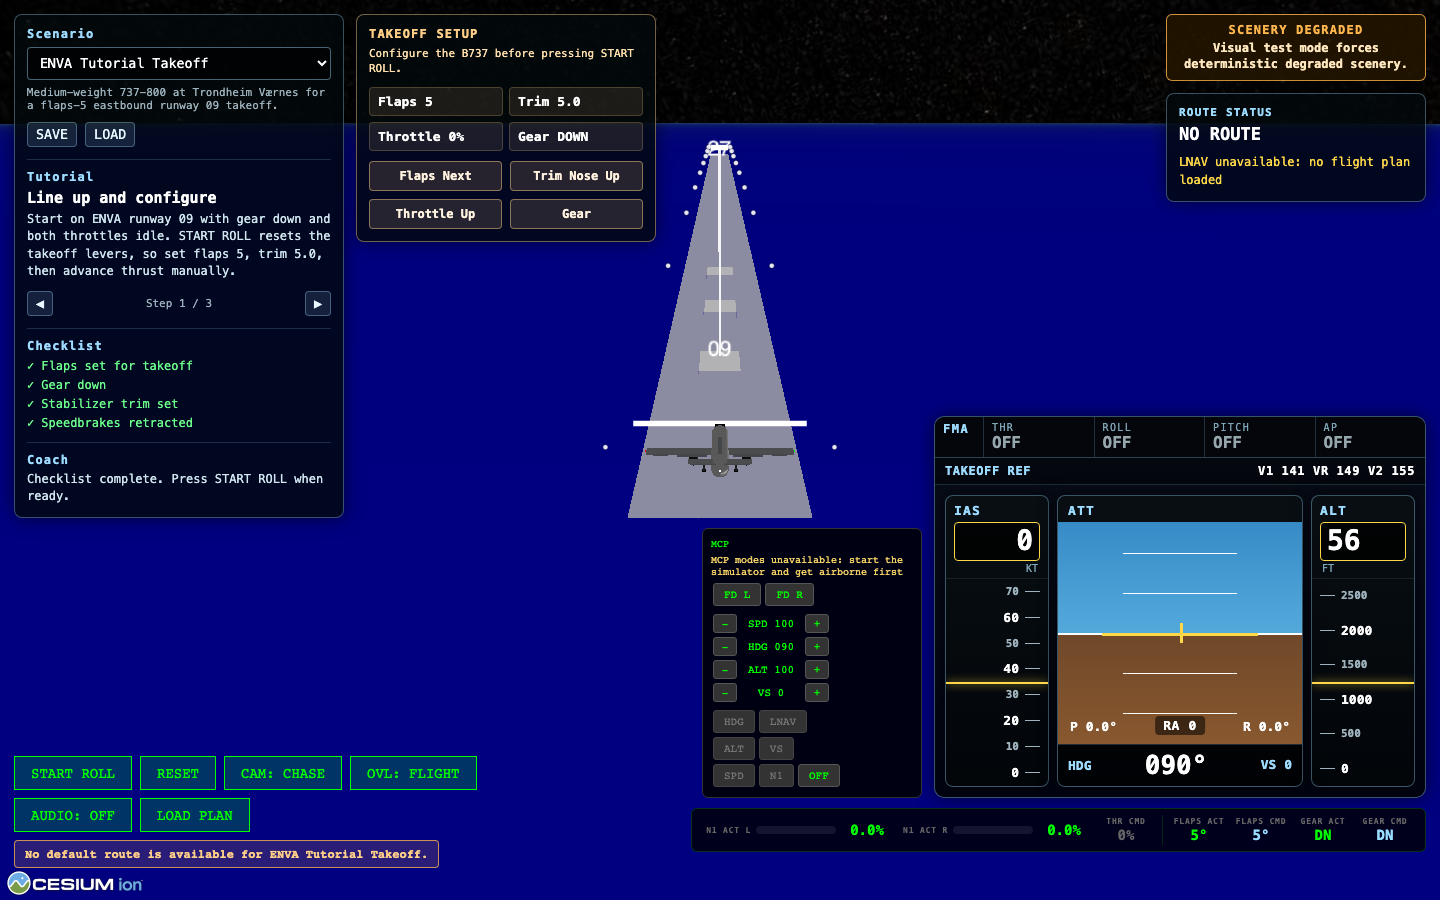
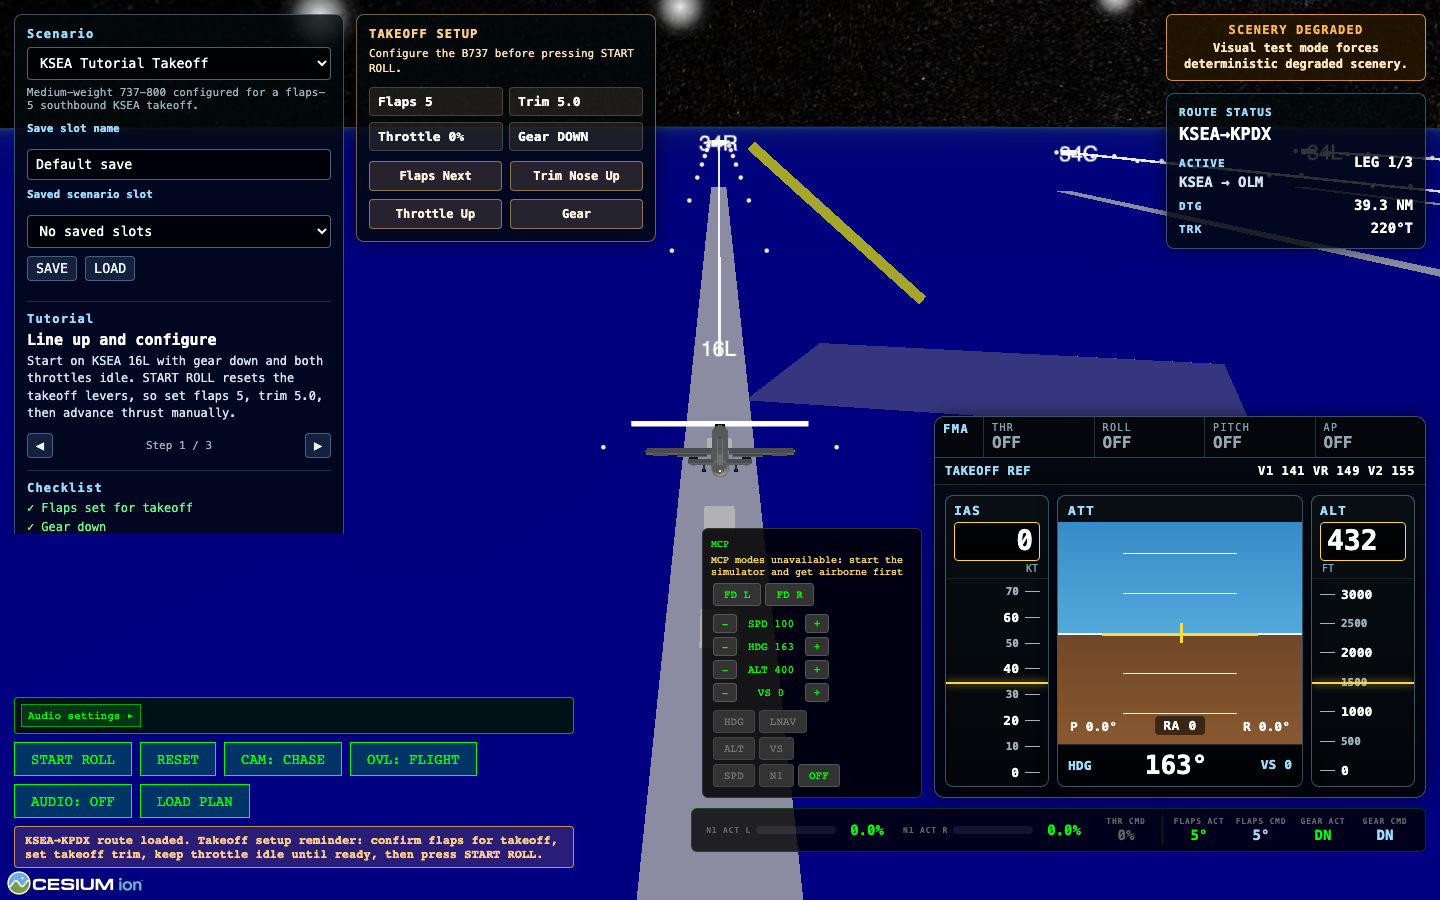
test: require loaded route in visual proof

diff --git a/e2e/rfs-visual.spec.ts b/e2e/rfs-visual.spec.ts
@@ -18,8 +18,10 @@ test.describe('RFS deterministic visual states', () => {
 
   test('route overlay and safe AP modes are visible after LOAD PLAN', async ({ page }) => {
     await openRfs(page);
+    await page.getByLabel('Scenario', { exact: true }).selectOption('ksea-tutorial');
     await clickButton(page, /LOAD PLAN/i);
-    await expect(page.getByLabel('Route status')).toContainText(/NO ROUTE|KSEA→KPDX/);
+    await expect(page.getByLabel('Route status')).toContainText('KSEA→KPDX');
+    await expect(page.getByLabel('Route status')).toContainText(/KSEA\s+→\s+OLM/);
     await expect(page).toHaveScreenshot('route-loaded.png', { fullPage: true, timeout: 10_000 });
   });
 